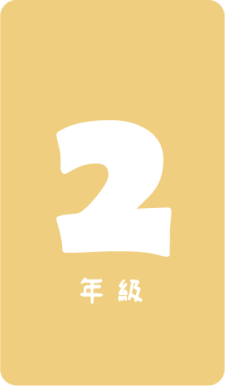
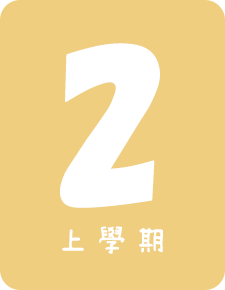
fix grade btn

diff --git a/index.html b/index.html
@@ -11,8 +11,8 @@
 </head>
 <body>
     <header>
-        <nav class="navbar navbar-expand-md navbar-expand-sm navbar-dark fixed-top" style="background-color: #57B9D9; height: 90px;">
-            <div class="container-fluid">
+        <nav class="navbar navbar-expand-md navbar-expand-sm navbar-dark fixed-top" style="background-color: #57B9D9; height: 90px; width: 100%;">
+            <div class="container-fluid" style="width: 100%;">
                 <a class="navbar-brand" href="https://programtheworld.tw/main.php" alt="Home">
                     <img src="asset/nav_bar/logo.png" class="img-fluid" style="max-width: 90%;">
                 </a>
@@ -53,61 +53,45 @@
             </div>
         </nav>
     </header>
-    <div id="sliderImmagini" class="carousel slide" data-bs-ride="carousel">
-        <div class="carousel-inner">
-            <div class="carousel-item active">
-                <img src="asset/slider2/silder1.png" class="d-block w-100" style="max-width: 100%;" alt="...">
-            </div>
-            <div class="carousel-item">
-                <img src="asset/slider2/silder2.png" class="d-block w-100" alt="...">
-            </div>
-            <div class="carousel-item">
-                <img src="asset/slider2/silder3.png" class="d-block w-100" alt="...">
-            </div>
-       </div>
-    </div>
     
     <div class="container-fluid ms-md-2">
-        <div class="part" id="grade-title">
-            <img src="asset/grade_btn/title.png" style="max-width: 100%;">
-        </div>
         <div class="row">
-            <div class="col-lg-2 col-md-4 mb-3">
+            <div class="col-lg-2 col-md-4">
                 <div class="grade-item">
                     <a href="/grade1/index.html" alt="">
                         <img src="asset/grade_btn/grade1.png" style="max-width: 100%;">
                     </a>       
                 </div>
             </div>
-            <div class="col-lg-2 col-md-4 mb-3">
+            <div class="col-lg-2 col-md-4">
                 <div class="grade-item">
                     <a href="#" alt="">
                         <img src="asset/grade_btn/grade2.png" style="max-width: 100%;">
                     </a>
                 </div>
             </div>
-            <div class="col-lg-2 col-md-4 mb-3">
+            <div class="col-lg-2 col-md-4">
                 <div class="grade-item">
                     <a href="#" alt="">
                         <img src="asset/grade_btn/grade3.png" style="max-width: 100%;">
                     </a>
                 </div>
             </div>
-            <div class="col-lg-2 col-md-4 mb-3">
+            <div class="col-lg-2 col-md-4">
                 <div class="grade-item">
                     <a href="#" alt="">
                         <img src="asset/grade_btn/grade4.png" style="max-width: 100%;">
                     </a>
                 </div>
             </div>
-            <div class="col-lg-2 col-md-4 mb-3">
+            <div class="col-lg-2 col-md-4">
                 <div class="grade-item">
                     <a href="#" alt="">
                         <img src="asset/grade_btn/grade5.png" style="max-width: 100%;">
                     </a>
                 </div>
             </div>
-            <div class="col-lg-2 col-md-4 mb-3">
+            <div class="col-lg-2 col-md-4">
                 <div class="grade-item">
                     <a href="#" alt="">
                         <img src="asset/grade_btn/grade6.png" style="max-width: 100%;">
@@ -116,13 +100,7 @@
             </div>
         </div>
     </div>
-    <div class="container-fluid">
-        <div class="row">
-            <div class="part">
-                <img src="asset/grade_btn/title2.png" style="max-width: 99%;">
-            </div>
-        </div>
-    </div>
+ 
 
     <script src="js/popper.min.js"></script>
     <script src="js/bootstrap.min.js" ></script>

diff --git a/style.css b/style.css
@@ -1,6 +1,6 @@
 .body{
-    margin: 0;
-    padding: 0;
+    margin: 0px;
+    padding: 0px;
 }
 
 .navbar-toggler {
@@ -9,9 +9,6 @@
     color: blueviolet;
     background-color: #57B9D9;
     margin-top: 10px;
-}
-.navbar-collapse {
-    z-index: 1000;
 }
 
 .nav-link{
@@ -23,9 +20,7 @@
    margin-bottom: 8px;
 }
 
-/* .carousel-inner {
-    padding: 5px;
-} */
+
 
 .nav2 {
     display: none;
@@ -41,27 +36,9 @@
     transition-delay: 5s;
 }
 
-.part{
-    display: block;
-    position: relative;
-    padding-left: 25%;
-    padding-right: 25%;
-    padding-top: 8%;
-    padding-bottom: 2%;
-}
-
-.carousel-inner {
-    display: block;
-    margin: 0px;
-    position: relative;
-    padding-top: 95px;
-    padding-left: 5px;
-    padding-right: 5px;
-
-}
 
 .grade-item {
     display: block;
-    text-align: center;
+    padding-top: 140px;
 
 }
